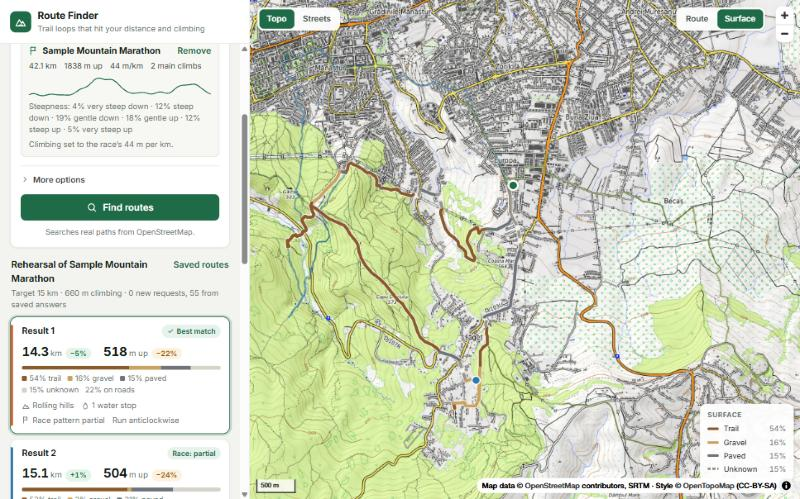
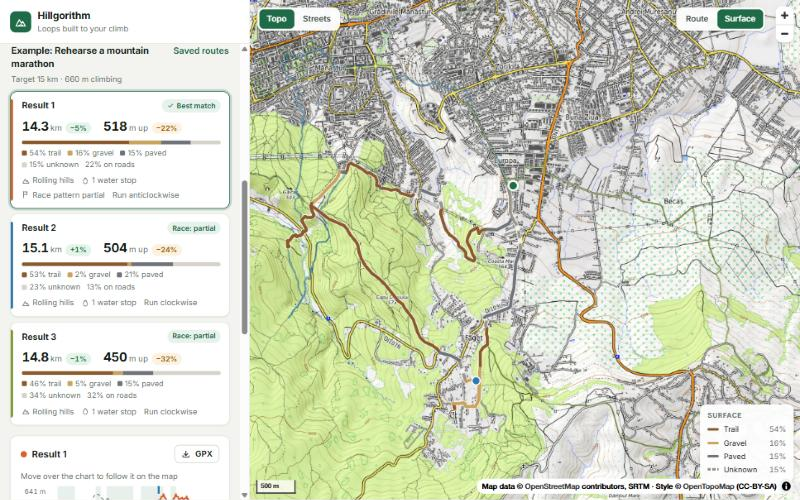
Rename the app to Hillgorithm
- New name and tagline "Loops built to your climb" in the brand bar,
  page title, README, GPX creator, server identifiers
- README screenshots refreshed

diff --git a/app/RouteViewer.js b/app/RouteViewer.js
@@ -130,8 +130,8 @@ export default function RouteViewer({ savedRoutes }) {
         <header className="brand">
           <span className="brand-mark"><LogoIcon size={20} /></span>
           <div>
-            <h1>Route Finder</h1>
-            <p>Trail loops that hit your distance and climbing</p>
+            <h1>Hillgorithm</h1>
+            <p>Loops built to your climb</p>
           </div>
         </header>
 

diff --git a/app/layout.js b/app/layout.js
@@ -7,7 +7,7 @@ import './globals.css';
 const inter = Inter({ subsets: ['latin', 'latin-ext'], display: 'swap', variable: '--font-inter' });
 
 export const metadata = {
-  title: 'Route Finder',
+  title: 'Hillgorithm · Loops built to your climb',
   description: 'Trail and ultra running loops that hit your distance and climbing targets.',
 };
 

diff --git a/app/globals.css b/app/globals.css
@@ -1,5 +1,5 @@
 /* ==========================================================================
-   Route Finder - design system
+   Hillgorithm - design system
    Calm outdoor palette: deep forest green for actions, warm neutrals, clear type.
    ========================================================================== */
 

diff --git a/README.md b/README.md
@@ -1,6 +1,6 @@
-# Route Finder
+# Hillgorithm
 
-**Trail and ultra running loops that hit your distance *and* your climbing target.**
+**Loops built to your climb.** Trail and ultra running loops that hit your distance *and* your climbing target.
 
 Give it a start point, a distance and how many metres you want to climb. It returns
 three loops that match, tells you how much of each is real trail, where you can refill
@@ -16,7 +16,7 @@ people made. I found none that **builds a loop to a climbing target**. The big r
 planners are also increasingly behind subscriptions, and automatically suggested routes
 tend to send trail runners down roads. This project goes after those gaps:
 
-| Runners' complaint about other apps | What Route Finder does |
+| Runners' complaint about other apps | What Hillgorithm does |
 |---|---|
 | Can't ask for "15 km with 500 m of climbing" | Searches dozens of loops and ranks them on both numbers |
 | Suggested routes use busy roads | Shows trail / gravel / paved / road share and prefers trail |

diff --git a/CLAUDE.md b/CLAUDE.md
@@ -1,4 +1,8 @@
-# Running route app
+# Hillgorithm (running route app)
+
+Name chosen 2026-11-15: **Hillgorithm**, tagline "Loops built to your climb" (clear of existing
+running apps; hillgorithm .com/.app/.run/.io had no DNS then - not bought). GitHub repo is still
+`route-finder` (private): github.com/sarachesches-source/route-finder.
 
 AI route finder for trail and ultra runners: give a start point, a distance and a
 climbing target, get three loops that hit both numbers. Inspired by trackscout.net.
